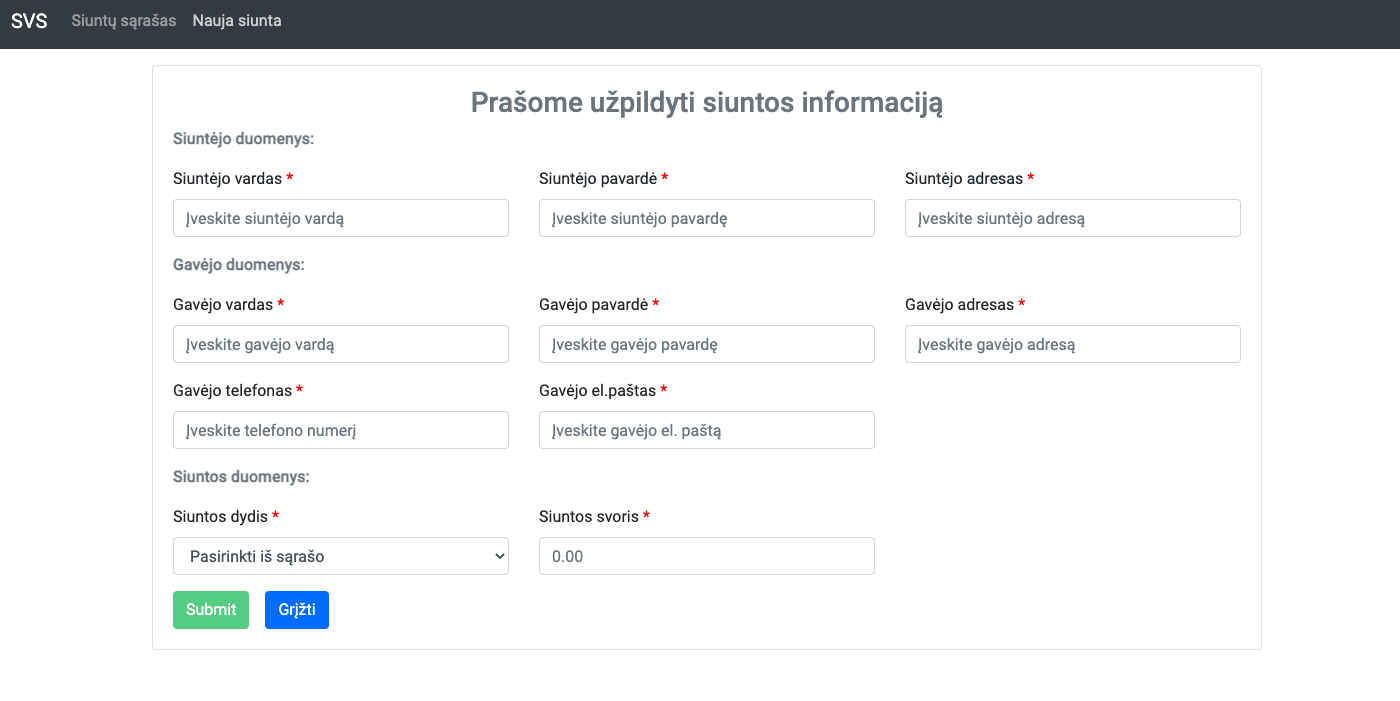
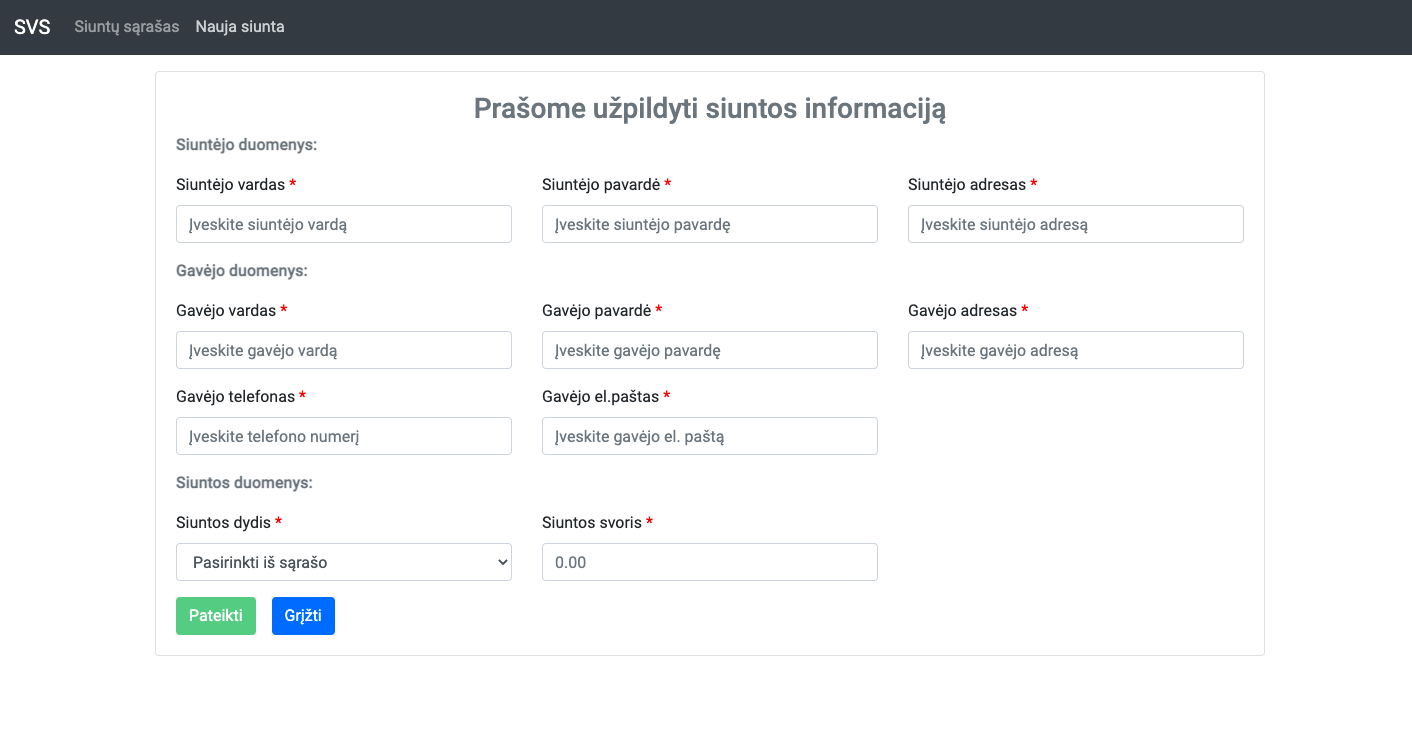
btn name fix

diff --git a/app-ui/src/app/components/parcel-update/parcel-update.component.html b/app-ui/src/app/components/parcel-update/parcel-update.component.html
@@ -198,7 +198,7 @@
         <div class="col"></div>
       </div>
       <div>
-        <button type="submit" class="btn btn-success mr-3">Submit</button>
+        <button type="submit" class="btn btn-success mr-3">Pateikti</button>
         <a [routerLink]="['/parcels']" class="btn btn-primary mr-3">Grįžti</a>
       </div>
     </form>

diff --git a/app-ui/src/app/components/parcel-form/parcel-form.component.html b/app-ui/src/app/components/parcel-form/parcel-form.component.html
@@ -199,7 +199,7 @@
       </div>
       <div>
         <button type="submit" [disabled]="!userForm.form.valid"
-                class="btn btn-success">Submit
+                class="btn btn-success">Pateikti
         </button>
         <a [routerLink]="['/parcels']" class="btn btn-primary ml-3">Grįžti</a>
       </div>
